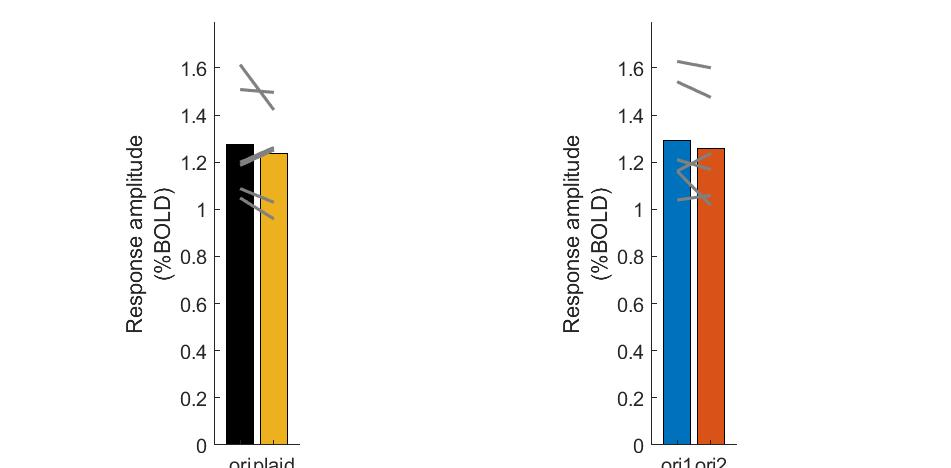
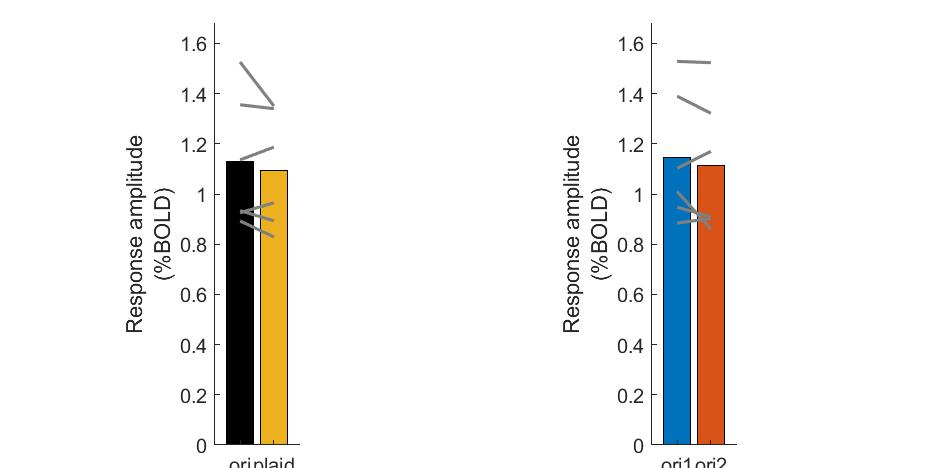
lessVein

diff --git a/neuroimaging/HRdelay.m b/neuroimaging/HRdelay.m
@@ -4,8 +4,8 @@ addpath(genpath(fullfile(pwd,'matlabFun')));
 runFit
 
 fitType = 'fixed';
-threshType = 'fdr';
-veinPerc = 20;
+threshType = 'p';
+veinPerc = 40;
 figOption.save = 1;
 figOption.subj = 1; % subjInd, +inf for all subj
 % loadOption;
